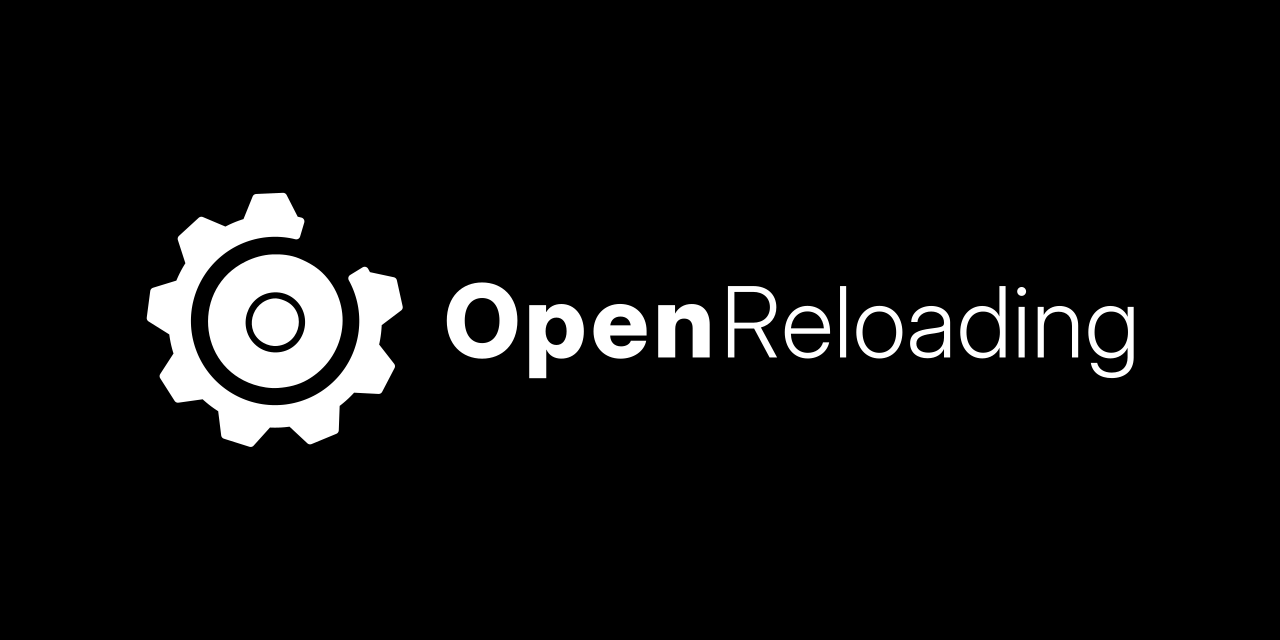
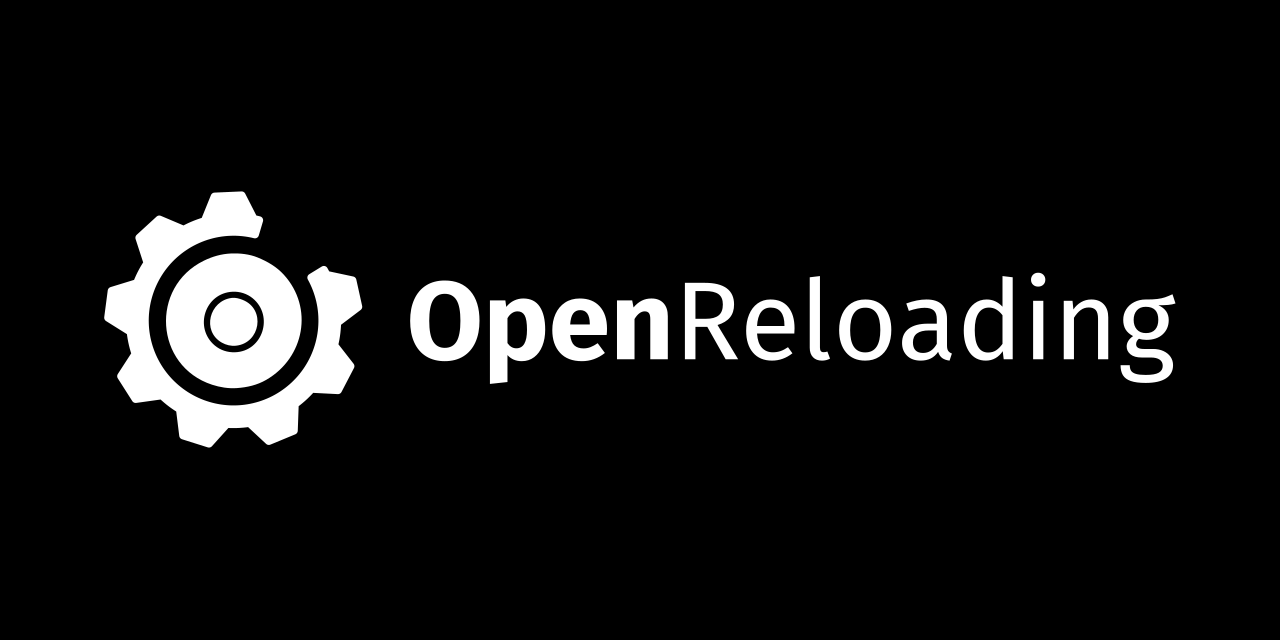
Lettering from Fira Sans at build time, lettering/ removed

Changed region(s): [[0.0625, 0.2812, 0.9375, 0.7188]]

diff --git a/generate.py b/generate.py
@@ -1,14 +1,13 @@
 #!/usr/bin/env python3
 """Builds the OpenReloading, AutoLever and Ballistics marks. See CLAUDE.md for the construction.
 
-Needs rsvg-convert and ImageMagick 7.
+Needs python3 with fontTools (pip install fonttools), the Fira Sans font (fontconfig), rsvg-convert and ImageMagick 7.
 Usage: python3 generate.py            writes openreloading/, autolever/, ballistics/
        python3 generate.py tooth      variant with the gap cut through the end teeth, written to .build/variant-tooth/
 """
 import re, math, pathlib, subprocess, sys
 STYLE = sys.argv[1] if len(sys.argv) > 1 else "ring"
 HERE = pathlib.Path(__file__).resolve().parent
-LETTERING = HERE / "lettering"
 BUILD = HERE / ".build"; BUILD.mkdir(exist_ok=True)
 DEST = {n: HERE / n for n in ("openreloading", "autolever", "ballistics")}
 if STYLE != "ring":
@@ -71,12 +70,42 @@ E = 212.3                                     # icon square: the same for all th
 def icon(name, col="#000"):
     return (f'<svg xmlns="http://www.w3.org/2000/svg" viewBox="{CX-E/2:.2f} {CY-E/2:.2f} {E} {E}" fill="currentColor" color="{col}" role="img" aria-label="{name}">\n'
             f'{mark(name, "currentColor")}\n</svg>\n')
-# lockups: lettering/<name>.svg holds the outlined wordmark lettering with a "<!-- mark -->" slot where the mark goes
-PLACE = {"openreloading": "", "autolever": f'transform="translate({922-CX:.2f} {639-CY:.2f})"', "ballistics": 'transform="translate(-0.04 -1.39)"'}
+# wordmarks: lettering outlined from a font at build time, first word bold, second regular
+FONT = "Fira Sans"
+KERN = {"Au": -0.07, "Le": -0.03, "ev": -0.015, "Re": -0.01}      # em, pairs that sit loose without the font's own kerning
+def load_font(weight):
+    from fontTools.ttLib import TTFont
+    path = subprocess.run(["fc-match", "-f", "%{file}", f"{FONT}:{weight}"], capture_output=True, text=True, check=True).stdout
+    if FONT.lower().replace(" ", "") not in path.lower().replace(" ", ""): print(f"warning: {FONT} {weight} not installed, fontconfig gave {path}")
+    return TTFont(path)
+FONTS = {}
+def text_path(text, weight, size, x, y):
+    """outlined text at baseline (x, y); returns (path d, advance)"""
+    from fontTools.pens.svgPathPen import SVGPathPen
+    from fontTools.pens.transformPen import TransformPen
+    f = FONTS.setdefault(weight, load_font(weight)); gs = f.getGlyphSet(); cmap = f.getBestCmap(); hm = f["hmtx"]
+    sc = size / f["head"].unitsPerEm; d, px = [], x
+    for i, ch in enumerate(text):
+        g = cmap[ord(ch)]
+        if i: px += KERN.get(text[i - 1] + ch, 0) * size
+        pen = SVGPathPen(gs); gs[g].draw(TransformPen(pen, (sc, 0, 0, -sc, px, y))); d.append(pen.getCommands())
+        px += hm[g][0] * sc
+    return " ".join(d), px - x
+WORDS = {"openreloading": ("Open", "Reloading"), "autolever": ("Auto", "Lever"), "ballistics": ("Open", "Reloading")}
 def lockup(name, variant):
     col = "#fff" if variant == "dark" else "#000"
-    s = (LETTERING / f"{name}.svg").read_text().replace("<svg ", f'<svg color="{col}" ', 1)
-    return s.replace("<!-- mark -->", f'<g {PLACE[name]}>\n{mark(name, col)}\n</g>')
+    H = 126; sc = H / E                                       # the icon square scaled so the cog is 100 tall
+    g = f'<g transform="scale({sc:.4f}) translate({E/2-CX:.2f} {E/2-CY:.2f})">\n{mark(name, col)}\n</g>'
+    tx = H + 4; a, b = WORDS[name]
+    if name == "ballistics":
+        d1, w1 = text_path(a, "bold", 20, tx, 52); d2, w2 = text_path(b, "regular", 20, tx + w1, 52)
+        d3, w3 = text_path("Ballistics", "bold", 43, tx, 100); W = tx + max(w1 + w2, w3); label = "OpenReloading Ballistics"
+        paths = f'<path d="{d1}"/><path d="{d2}"/><path d="{d3}"/>'
+    else:
+        d1, w1 = text_path(a, "bold", 43, tx, 78); d2, w2 = text_path(b, "regular", 43, tx + w1, 78); W = tx + w1 + w2; label = a + b
+        paths = f'<path d="{d1}"/><path d="{d2}"/>'
+    return (f'<svg xmlns="http://www.w3.org/2000/svg" viewBox="0 0 {W+6:.1f} {H}" fill="currentColor" color="{col}" role="img" aria-label="{label}">\n'
+            f'{g}\n{paths}\n</svg>\n')
 
 def run(*a): subprocess.run(a, check=True)
 for name, out in DEST.items():

diff --git a/CLAUDE.md b/CLAUDE.md
@@ -1,6 +1,6 @@
 # Artwork
 
-Logos of the OpenReloading org and its projects. `generate.py` builds every file from constants plus `lettering/`; edit the script, never the outputs. Do not redesign the marks: new marks reuse the cog and add one element (user, 2026-10-10).
+Logos of the OpenReloading org and its projects. `generate.py` builds every file from constants and a system font; edit the script, never the outputs. Build needs python3 + fontTools, Fira Sans (via fontconfig), rsvg-convert, ImageMagick 7. Do not redesign the marks: new marks reuse the cog and add one element (user, 2026-10-10).
 
 ## Construction (`generate.py`)
 
@@ -10,12 +10,12 @@ Logos of the OpenReloading org and its projects. `generate.py` builds every file
 - OpenReloading: cog + `CASE_HEAD` (disc, primer ring, primer; the original hand-made path, scaled 0.95 for a hairline to the ring).
 - AutoLever: cog + lever through the gap at 37.5°: hub r 22.7 with r 5 pivot hole, bar 21.4 wide from r 18 to r 104, knob r 22.6. Sizes measured from the hand-made lever, length shortened so the knob stays inside the icon square.
 - Ballistics: cog + pressure-curve chart inside: baseline 30 below centre, curve and baseline reach 4 units into the ring on both sides, peak 38 above centre, 14 left of centre.
-- Wordmarks: `lettering/<name>.svg` is the outlined lettering from the hand-made set (bold first word, regular second; Ballistics still reads "OpenBallistics"), with a `<!-- mark -->` slot. `PLACE` positions the mark where the hand-made one was. Transparent; `color` set per variant.
+- Wordmarks: lettering outlined at build time from Fira Sans (SIL OFL) with fontTools, first word bold, second regular, manual kerning for Au/Le/ev/Re; Ballistics gets "OpenReloading" small above "Ballistics" bold. Layout: the icon square scaled so the cog is 100 tall, text 43 (20 for the small line), 4 units gap after the square. Transparent, `color` set per variant.
 - PNGs: icon 880 px white mark on a 1024 black square (avatars), social 1120 px wide dark wordmark on 1280 × 640 black.
 
 ## Adding a mark
 
-Add a name to `DEST`, a `mark()` branch that returns `cog(col)` plus one element (inside the ring or leaving through the gap, like the lever), a `lettering/<name>.svg` with the slot, and a `PLACE` entry. Keep the cog untouched and the icon square the same.
+Add a name to `DEST` and `WORDS`, and a `mark()` branch that returns `cog(col)` plus one element (inside the ring or leaving through the gap, like the lever). Keep the cog untouched and the icon square the same.
 
 ## Where files go on GitHub
 

diff --git a/README.md b/README.md
@@ -6,6 +6,6 @@ Logos of OpenReloading and its projects, monochrome, built on one open cog.
 
 Each folder has `<name>-icon.svg` (mark only, `currentColor`), `<name>-light.svg` and `<name>-dark.svg` (with wordmark), `<name>-icon-1024.png` (avatar) and `<name>-social-1280x640.png` (GitHub social preview).
 
-`python3 generate.py` rebuilds everything (needs rsvg-convert and ImageMagick 7). Construction and rules: `CLAUDE.md`.
+`python3 generate.py` rebuilds everything (needs fontTools, the Fira Sans font, rsvg-convert and ImageMagick 7). Construction and rules: `CLAUDE.md`.
 
 MIT licence. The names identify these projects; use the marks to refer to them, not to suggest endorsement.
